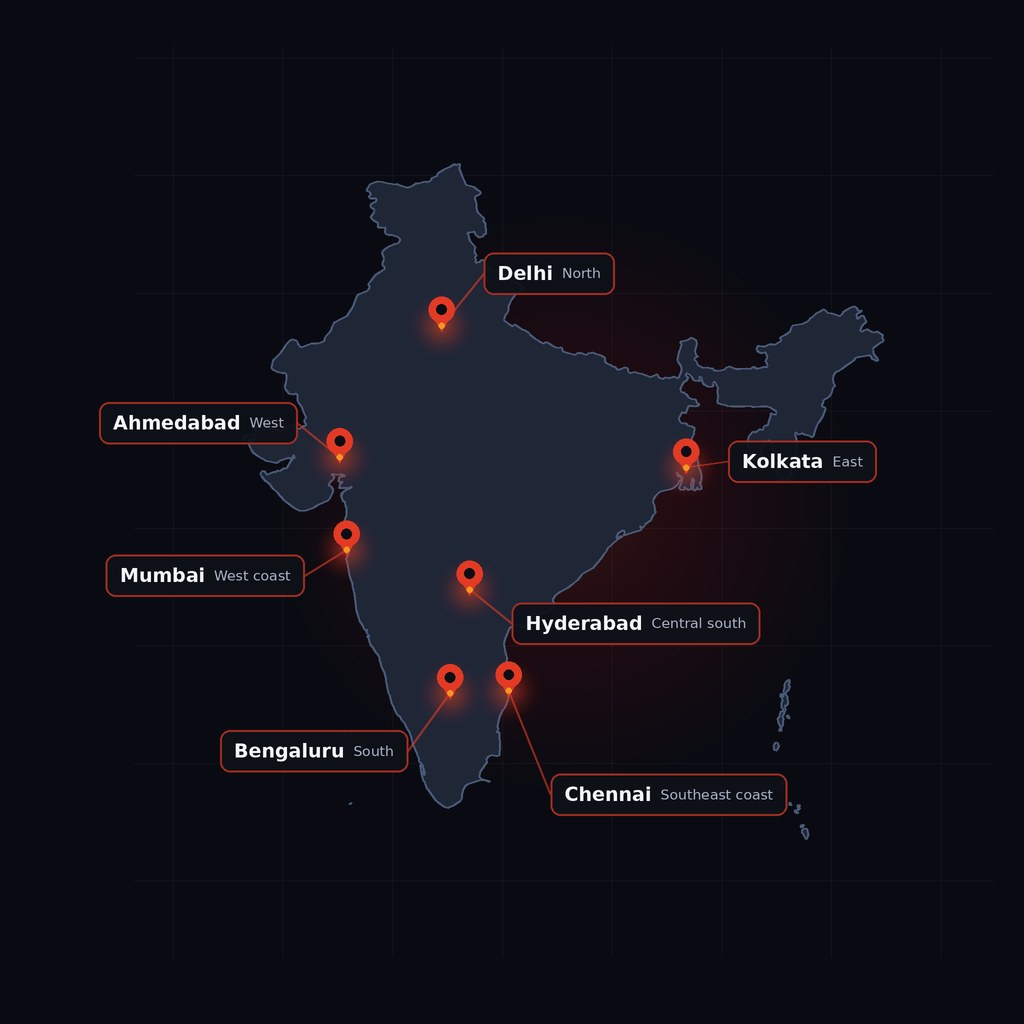
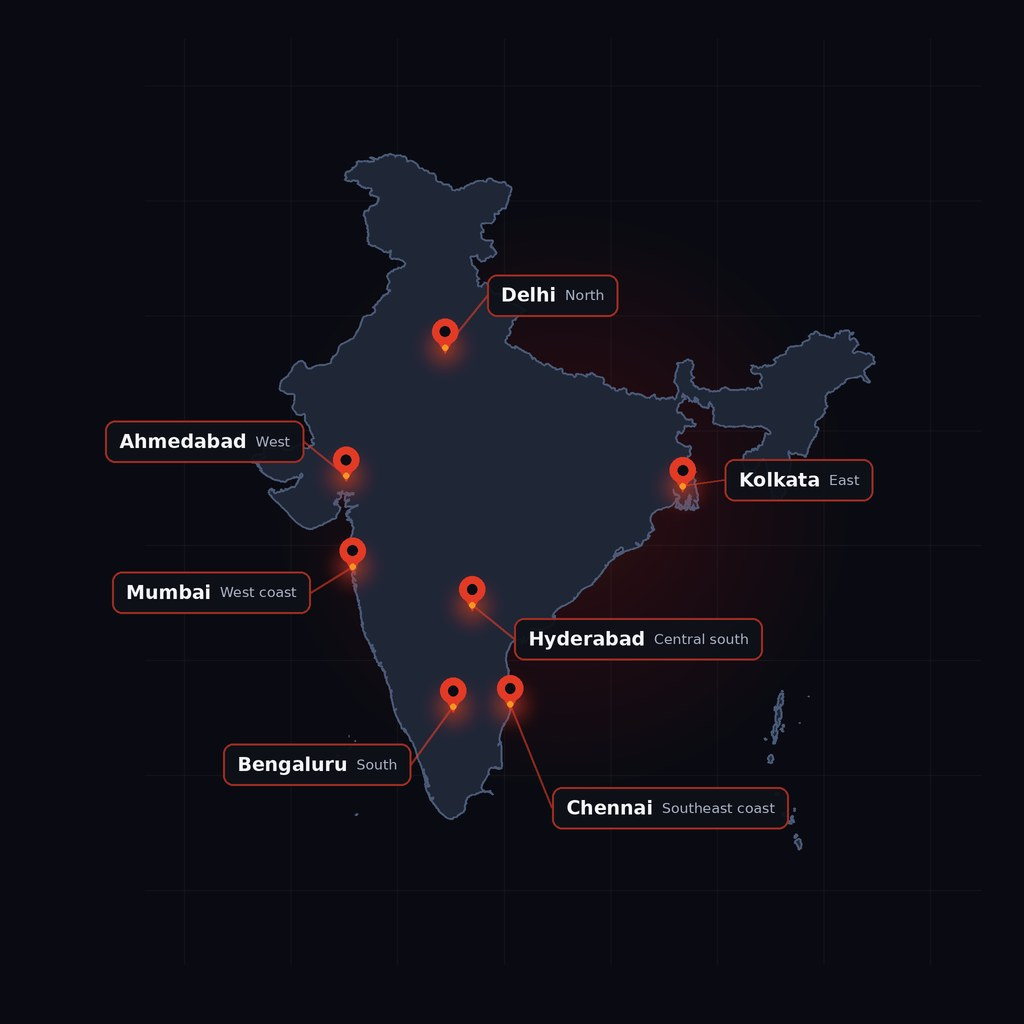
Use the India point-of-view map outline and rewrite the home page to the keynote copy

Changed region(s): [[0.0938, 0.125, 0.875, 0.8125], [0.5312, 0.6562, 0.7812, 0.8125]]

diff --git a/site/index.html b/site/index.html
@@ -19,8 +19,8 @@
 <link rel="preconnect" href="https://fonts.googleapis.com">
 <link rel="preconnect" href="https://fonts.gstatic.com" crossorigin>
 <link href="https://fonts.googleapis.com/css2?family=Inter:wght@400;500;600;700&family=Sora:wght@600;700&display=swap" rel="stylesheet">
-<link rel="stylesheet" href="assets/styles.css?v=34">
-<link rel="stylesheet" href="assets/aircraft3d.css?v=34">
+<link rel="stylesheet" href="assets/styles.css?v=36">
+<link rel="stylesheet" href="assets/aircraft3d.css?v=36">
 </head>
 <body>
 
@@ -49,8 +49,8 @@
   <div class="grid-art"></div>
   <div class="wrap">
     <span class="eyebrow"><span class="dot"></span> Global Expo Events · Seven cities · Twenty-one days</span>
-    <h1>India's aerospace and industry expo, brought to <em>seven cities at once.</em></h1>
-    <p class="lede">Aircraft manufacturing, airlines, aerospace, planet research, finance, industry and technology — with education, employment, finance, industry and technology tracks at every stop. Delegations invited from around the world. Dates announced <span class="tbc">[month, 2027]</span>.</p>
+    <h1>Seven cities. Twenty-one days. <em>One nation on the move.</em></h1>
+    <p class="lede">This is India's biggest travelling business expo — aerospace, industry, finance, education and technology, city to city, non-stop. What you're looking at isn't an event. <strong>It's a movement. And it starts here.</strong> Dates announced <span class="tbc">[month, 2027]</span>.</p>
     <div class="cta-row">
       <a href="participate/" class="btn primary">Exhibit with us</a>
       <a href="contact/" class="btn ghost">Attend an expo</a>
@@ -59,11 +59,10 @@
 </section>
 
 <div class="wrap" style="margin-top:-1px;">
-  <div class="stat-strip">
-    <div class="stat"><div class="num">7</div><div class="label">Host cities across India</div></div>
-    <div class="stat"><div class="num">21</div><div class="label">Days of programming</div></div>
-    <div class="stat"><div class="num">7</div><div class="label">Sectors under one roof</div></div>
-    <div class="stat"><div class="num">5</div><div class="label">Expo tracks per city</div></div>
+  <div class="stat-strip three">
+    <div class="stat"><div class="num">7</div><div class="label">Host cities, coast to coast</div></div>
+    <div class="stat"><div class="num">21</div><div class="label">Days, non-stop</div></div>
+    <div class="stat"><div class="num">5</div><div class="label">Expo sectors at every stop</div></div>
   </div>
 </div>
 
@@ -93,6 +92,32 @@
 
 <section>
   <div class="wrap">
+    <div class="section-head">
+      <span class="kicker">The scale of it</span>
+      <h2>What one floor can hold.</h2>
+    </div>
+    <div class="grid-3">
+      <div class="card claim">
+        <span class="claim-num">193</span>
+        <h3>🌍 193 countries.</h3>
+        <p>Experts, investors, educators and industry leaders from <strong>193 countries</strong> — the whole world, invited onto one floor.</p>
+      </div>
+      <div class="card claim">
+        <span class="claim-num">2 cr</span>
+        <h3>🏭 Nearly 2 crore jobs.</h3>
+        <p>A platform built to help create close to <strong>two crore jobs across India</strong> — direct and indirect — as businesses meet, hire and grow.</p>
+      </div>
+      <div class="card claim">
+        <span class="claim-num">150+</span>
+        <h3>🏆 150+ global giants.</h3>
+        <p><strong>150-plus Fortune-listed corporations</strong>, walking the same floor as India's next generation of business.</p>
+      </div>
+    </div>
+  </div>
+</section>
+
+<section>
+  <div class="wrap">
     <div class="split-media">
       <figure class="media-frame">
         <img src="assets/brand/india_map_for_geefit.jpg" width="1024" height="1024" loading="lazy" decoding="async"
@@ -101,10 +126,11 @@
       <div class="split-media-body">
         <div class="section-head">
           <span class="kicker">What Global Expo Events is</span>
-          <h2>One programme, seven stops.</h2>
-          <p>Most Indian trade shows happen once, in one hall, in one city — which means the supplier in Coimbatore and the student in Kolkata never make it. Global Expo Events takes the same exhibition floor and the same visiting delegations on the road: twenty-one days, seven cities, so the sector comes to the country instead of the country coming to Delhi.</p>
+          <h2>The opportunity travels to them.</h2>
+          <p>Picture it. Most expos happen once — one hall, one city, one window that most of the country never gets to walk through.</p>
         </div>
-        <p style="color:var(--ink-dim);">Each stop runs the full five tracks — education, employment, finance, industry and technology — so a single visit can mean a course prospectus, a job interview, a distributor conversation and an investor meeting in one afternoon.</p>
+        <p style="color:var(--ink-dim); margin-bottom:16px;"><strong>We're changing that.</strong> Global Expo Events takes the entire floor on the road — the same exhibition, the same global delegations — across seven Indian cities in twenty-one non-stop days. The supplier in Coimbatore. The graduate in Kolkata. The investor in Mumbai.</p>
+        <p style="color:var(--ink-dim);">Five sectors at every stop. Delegations from across the world. And a single mission: to connect Indian business, end to end, and open it to the planet.</p>
       </div>
     </div>
   </div>
@@ -125,6 +151,23 @@
       <span class="city-pill"><strong>Chennai</strong> · venue &amp; dates <span class="tbc">TBC</span></span>
       <span class="city-pill"><strong>Kolkata</strong> · venue &amp; dates <span class="tbc">TBC</span></span>
       <span class="city-pill"><strong>Ahmedabad</strong> · venue &amp; dates <span class="tbc">TBC</span></span>
+    </div>
+  </div>
+</section>
+
+<section class="alt">
+  <div class="wrap">
+    <div class="section-head">
+      <span class="kicker">The five sectors</span>
+      <h2>Five sectors. One floor at every stop.</h2>
+      <p>Global Expo Events runs full expos across five sectors — in every one of the seven cities.</p>
+    </div>
+    <div class="grid-3">
+      <div class="sector-card"><h3>Education</h3><p>An education expo bringing institutions, courses and programmes to every city. The next generation, meeting the places that will shape them.</p></div>
+      <div class="sector-card"><h3>Employment</h3><p>An employment expo putting recruiters and talent in the same hall. Industries hiring, India's workforce answering.</p></div>
+      <div class="sector-card"><h3>Finance</h3><p>A finance expo connecting investors, lenders and capital with the businesses that need it. Where ideas find their backers.</p></div>
+      <div class="sector-card"><h3>Industry</h3><p>An industry expo running the full chain, primes to suppliers, under one roof. The engine room of Indian manufacturing, in motion.</p></div>
+      <div class="sector-card"><h3>Technology</h3><p>A technology expo showcasing the tools, platforms and innovators building what India does next.</p></div>
     </div>
   </div>
 </section>
@@ -165,11 +208,43 @@
 <section class="alt">
   <div class="wrap">
     <div class="section-head">
-      <span class="kicker">Why it matters</span>
-      <h2>Aerospace is being built in India. We want it built everywhere in India.</h2>
-      <p>India is assembling aircraft, launching satellites and manufacturing components at a scale it never has before. The bottleneck isn't ambition — it's contact. Suppliers who could qualify never meet the primes. Graduates trained for the work never meet the employers. Investors never see the shop floor.</p>
+      <span class="kicker">Make in India</span>
+      <h2>This isn't just business. It's nation-building. 🇮🇳</h2>
+      <p>India is assembling aircraft. Launching satellites. Manufacturing at a scale the world didn't expect. Global Expo Events carries that momentum into every corner of the country — not one city, but seven.</p>
     </div>
-    <p style="color:var(--ink-dim); max-width:72ch; margin-top:-20px;">An expo that travels fixes a small, specific part of that: it puts the primes, the suppliers, the institutions and the graduates in the same hall, seven times over. That's the whole idea, and it's enough.</p>
+    <p style="color:var(--ink-dim); max-width:72ch; margin-top:-20px;">Every stall filled. Every deal signed. Every graduate hired. Every rupee that stays and grows here — each one is a link in the chain that lifts the whole nation. We're building industries. Opening knowledge hubs. Bringing tourism to every host city. Putting Indian business on the world stage where it belongs.</p>
+    <p class="rally">Make in India. Meet the world. Grow together. <strong>This is India's decade.</strong></p>
+  </div>
+</section>
+
+<section>
+  <div class="wrap">
+    <div class="two-col">
+      <div>
+        <div class="section-head">
+          <span class="kicker">Special invitees</span>
+          <h2>The minds building beyond the sky.</h2>
+          <p>We're inviting the world's leading <strong>aerospace research experts</strong> and <strong>planetary and space research teams</strong> — the people behind the aircraft, the satellites and the missions putting India in orbit. On this floor, the room sees exactly where the next decade of Indian industry is headed.</p>
+        </div>
+      </div>
+      <div>
+        <div class="section-head">
+          <span class="kicker">The experience</span>
+          <h2>An expo with the soul of a festival.</h2>
+          <p>This isn't a quiet conference hall. Think <strong>Bharat Habba</strong> — the energy, the crowd, the celebration — powered by technology and industry. Live demos. Space and aerospace showcases. Sessions, meet-ups, deals and breakthroughs, across all seven cities. <strong>Twenty-one days of once-in-a-lifetime experience.</strong></p>
+        </div>
+      </div>
+    </div>
+  </div>
+</section>
+
+<section class="alt">
+  <div class="wrap">
+    <div class="section-head">
+      <span class="kicker">Business meet-ups</span>
+      <h2>The room where deals are made.</h2>
+      <p>Curated business meet-ups at every stop — exhibitors, buyers, investors and institutions, matched and face to face. One connection here can change the course of a business. This is India's business chain, connected globally — and every seat in the room is part of it.</p>
+    </div>
   </div>
 </section>
 
@@ -208,8 +283,8 @@
 <section class="tight">
   <div class="wrap">
     <div class="cta-band">
-      <h2>Be there when the dates drop.</h2>
-      <p>Leave your email and we'll tell you when your city's venue and dates are confirmed — and send the exhibitor rate card first, if you want it.</p>
+      <h2>India's biggest expo is coming. Seven cities. Be there.</h2>
+      <p>Exhibit. Sponsor. Attend. Leave your email and we'll tell you the moment your city's venue and dates go live.</p>
       <form data-stub>
         <input type="email" placeholder="you@company.com" required>
         <button type="submit" class="btn primary">Keep me posted</button>
@@ -254,7 +329,7 @@
     </div>
   </div>
 </footer>
-<script src="assets/script.js?v=34"></script>
-<script type="module" src="assets/aircraft3d.js?v=34"></script>
+<script src="assets/script.js?v=36"></script>
+<script type="module" src="assets/aircraft3d.js?v=36"></script>
 </body>
 </html>

diff --git a/site/assets/styles.css b/site/assets/styles.css
@@ -804,6 +804,44 @@ footer.site {
 .two-col { display: grid; grid-template-columns: 1.3fr 1fr; gap: 40px; align-items: start; }
 @media (max-width: 860px) { .two-col { grid-template-columns: 1fr; } }
 
+/* ---------- Keynote copy blocks ---------- */
+/* Three structural facts rather than four. */
+.stat-strip.three { grid-template-columns: repeat(3, 1fr); }
+@media (max-width: 700px) { .stat-strip.three { grid-template-columns: 1fr; } }
+
+/* Headline claims: the number leads, the sentence follows. */
+.card.claim { padding-top: 30px; }
+.claim-num {
+  display: block;
+  font-family: Sora, Inter, sans-serif;
+  font-size: 2.6rem;
+  font-weight: 700;
+  line-height: 1;
+  letter-spacing: -0.03em;
+  background: var(--grad);
+  -webkit-background-clip: text;
+  background-clip: text;
+  color: transparent;
+  margin-bottom: 14px;
+}
+.card.claim h3 { font-size: 1.06rem; margin: 0 0 8px; letter-spacing: -0.01em; }
+.card.claim p  { color: var(--ink-dim); font-size: 0.94rem; margin: 0; }
+
+/* The closing line of the Make-in-India block. */
+.rally {
+  margin: 26px 0 0;
+  font-family: Sora, Inter, sans-serif;
+  font-size: clamp(1.05rem, 2vw, 1.35rem);
+  letter-spacing: -0.015em;
+  color: var(--ink);
+}
+.rally strong {
+  background: linear-gradient(100deg, var(--red-hot), var(--orange));
+  -webkit-background-clip: text;
+  background-clip: text;
+  color: transparent;
+}
+
 /* ---------- Media beside copy (home map, about portrait) ---------- */
 .split-media {
   display: grid;

diff --git a/site/about/index.html b/site/about/index.html
@@ -19,7 +19,7 @@
 <link rel="preconnect" href="https://fonts.googleapis.com">
 <link rel="preconnect" href="https://fonts.gstatic.com" crossorigin>
 <link href="https://fonts.googleapis.com/css2?family=Inter:wght@400;500;600;700&family=Sora:wght@600;700&display=swap" rel="stylesheet">
-<link rel="stylesheet" href="../assets/styles.css?v=34">
+<link rel="stylesheet" href="../assets/styles.css?v=35">
 </head>
 <body>
 
@@ -197,6 +197,6 @@
     </div>
   </div>
 </footer>
-<script src="../assets/script.js?v=34"></script>
+<script src="../assets/script.js?v=35"></script>
 </body>
 </html>

diff --git a/site/contact/index.html b/site/contact/index.html
@@ -19,7 +19,7 @@
 <link rel="preconnect" href="https://fonts.googleapis.com">
 <link rel="preconnect" href="https://fonts.gstatic.com" crossorigin>
 <link href="https://fonts.googleapis.com/css2?family=Inter:wght@400;500;600;700&family=Sora:wght@600;700&display=swap" rel="stylesheet">
-<link rel="stylesheet" href="../assets/styles.css?v=34">
+<link rel="stylesheet" href="../assets/styles.css?v=35">
 </head>
 <body>
 
@@ -171,6 +171,6 @@
     </div>
   </div>
 </footer>
-<script src="../assets/script.js?v=34"></script>
+<script src="../assets/script.js?v=35"></script>
 </body>
 </html>

diff --git a/site/participate/index.html b/site/participate/index.html
@@ -19,7 +19,7 @@
 <link rel="preconnect" href="https://fonts.googleapis.com">
 <link rel="preconnect" href="https://fonts.gstatic.com" crossorigin>
 <link href="https://fonts.googleapis.com/css2?family=Inter:wght@400;500;600;700&family=Sora:wght@600;700&display=swap" rel="stylesheet">
-<link rel="stylesheet" href="../assets/styles.css?v=34">
+<link rel="stylesheet" href="../assets/styles.css?v=35">
 </head>
 <body>
 
@@ -196,6 +196,6 @@
     </div>
   </div>
 </footer>
-<script src="../assets/script.js?v=34"></script>
+<script src="../assets/script.js?v=35"></script>
 </body>
 </html>

diff --git a/site/services/index.html b/site/services/index.html
@@ -19,7 +19,7 @@
 <link rel="preconnect" href="https://fonts.googleapis.com">
 <link rel="preconnect" href="https://fonts.gstatic.com" crossorigin>
 <link href="https://fonts.googleapis.com/css2?family=Inter:wght@400;500;600;700&family=Sora:wght@600;700&display=swap" rel="stylesheet">
-<link rel="stylesheet" href="../assets/styles.css?v=34">
+<link rel="stylesheet" href="../assets/styles.css?v=35">
 </head>
 <body>
 
@@ -141,6 +141,6 @@
     </div>
   </div>
 </footer>
-<script src="../assets/script.js?v=34"></script>
+<script src="../assets/script.js?v=35"></script>
 </body>
 </html>

diff --git a/site/assets/script.js b/site/assets/script.js
@@ -85,6 +85,9 @@ document.addEventListener("DOMContentLoaded", () => {
   window.addEventListener("scroll", queueSweep, { passive: true });
   window.addEventListener("resize", queueSweep, { passive: true });
   window.addEventListener("load", queueSweep);
+  // A backgrounded tab never runs requestAnimationFrame, so the sweep above
+  // cannot fire while hidden. Catch up the moment the tab is shown again.
+  document.addEventListener("visibilitychange", queueSweep);
   queueSweep();
 
   /* ---- count up the stat numerals ---- */
